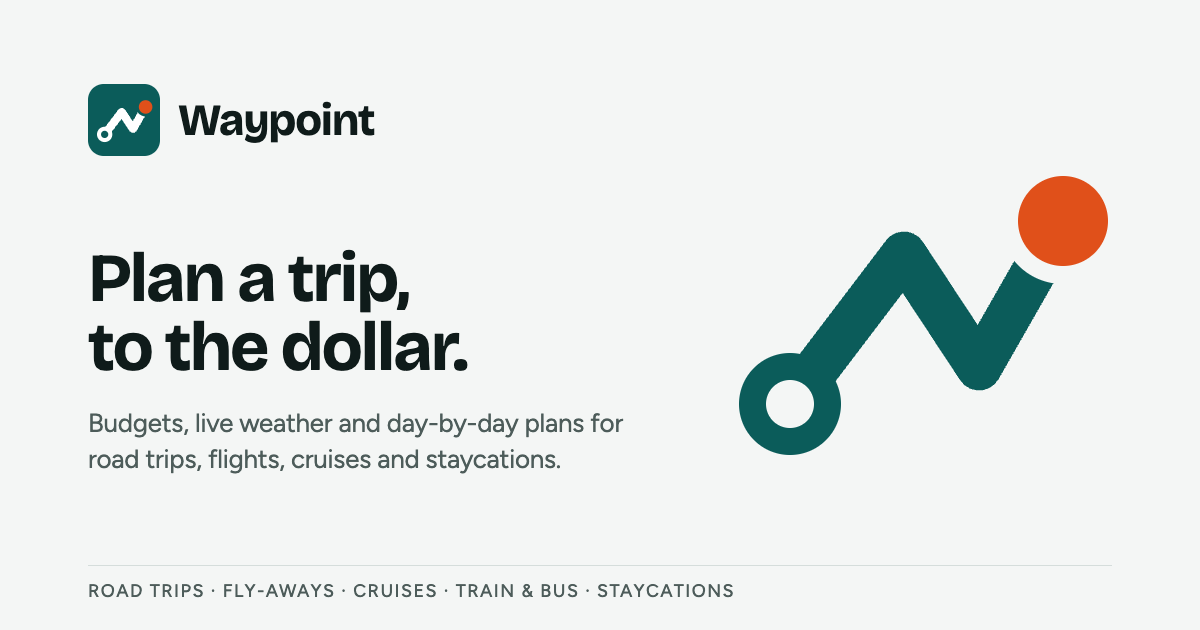
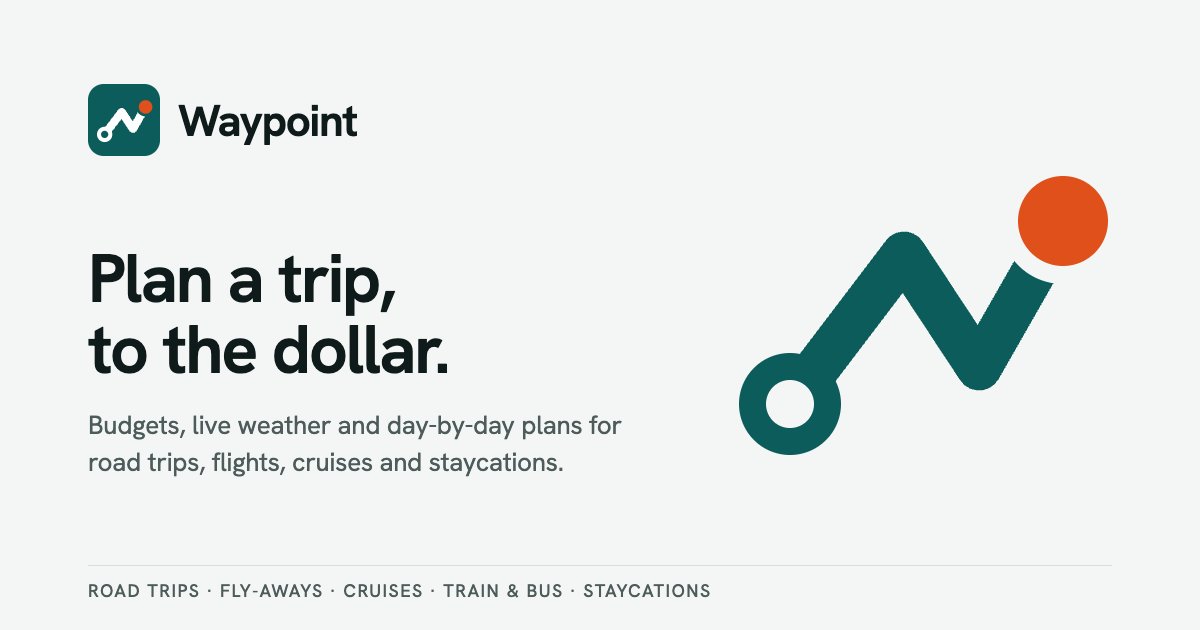
Restraint: system face with Hanken fallback, one teal accent, real photos only

diff --git a/src/components/app/plan/Inspiration.tsx b/src/components/app/plan/Inspiration.tsx
@@ -1,4 +1,5 @@
 import { ChevronLeft, ChevronRight } from "lucide-react";
+import { useQueries } from "@tanstack/react-query";
 import { useEffect, useState, type CSSProperties } from "react";
 
 import { Photo } from "@/components/app/Photo";
@@ -6,7 +7,8 @@ import { stagger, useDragScroll } from "@/components/app/motion";
 import { formatMoney } from "@/lib/budget";
 import type { GeoPoint } from "@/lib/catalog";
 import { getDestination, modeForTripType, tripTypeInfo, type TripType } from "@/lib/demo-data";
-import { useDestinationSummary } from "@/lib/live/use-open-data";
+import { useHydrated } from "@/lib/live/use-live";
+import { destinationSummaryOptions, useDestinationSummary } from "@/lib/live/use-open-data";
 import { recommendDestinations, type Suggestion } from "@/lib/recommend";
 import { TRIP_COLOR } from "@/components/app/trip-colors";
 import { TRIP_ICONS } from "@/components/app/TripTypePicker";
@@ -71,7 +73,17 @@ export function Inspiration({
   nights: number;
   onPick: (destinationId: string, tripType: TripType) => void;
 }) {
-  const ideas = inspirationIdeas(setup, from);
+  const hydrated = useHydrated();
+  const candidates = inspirationIdeas(setup, from, 8);
+  const photos = useQueries({
+    queries: candidates.map((idea) =>
+      destinationSummaryOptions(getDestination(idea.s.id), setup.origin, hydrated),
+    ),
+  });
+  // A place without a real photo is left out once we know (never a blank tile in the row).
+  const ideas = candidates
+    .filter((_, i) => photos[i]?.isPending || photos[i]?.data?.image)
+    .slice(0, 6);
   // A gallery, as on apple.com: one row you can drag, fling and page with the arrows.
   const rail = useDragScroll<HTMLUListElement>();
   const [edge, setEdge] = useState({ start: true, end: false });
@@ -200,8 +212,9 @@ function IdeaCard({
 
 /**
  * The hero's picture: three real places from the traveler's start, one tall and two
- * short, each a tap away from becoming the destination. Large screens only; phones
- * go straight to the ideas row.
+ * short, each a tap away from becoming the destination. Only places with a real photo
+ * are shown (a frame waits while photos load), so there is never a blank tile. Large
+ * screens only; phones go straight to the ideas row.
  */
 export function HeroPhotos({
   ideas,
@@ -212,52 +225,58 @@ export function HeroPhotos({
   origin: string;
   onPick: (destinationId: string, tripType: TripType) => void;
 }) {
-  const shown = ideas.slice(0, 3);
-  if (shown.length < 3) return null;
+  const hydrated = useHydrated();
+  const results = useQueries({
+    queries: ideas.map((idea) =>
+      destinationSummaryOptions(getDestination(idea.s.id), origin, hydrated),
+    ),
+  });
+  const withPhoto = ideas
+    .map((idea, i) => ({ idea, image: results[i]?.data?.image ?? null }))
+    .filter((x): x is { idea: Idea; image: string } => !!x.image)
+    .slice(0, 3);
+  const pending = results.some((r) => r.isPending);
+  if (withPhoto.length < 3 && !pending) return null;
   return (
     <ul className="hidden h-[26rem] grid-cols-2 grid-rows-2 gap-4 xl:grid">
-      {shown.map((idea, i) => (
-        <li key={idea.s.id} className={i === 0 ? "row-span-2" : undefined}>
-          <HeroTile idea={idea} origin={origin} onPick={onPick} />
-        </li>
-      ))}
+      {[0, 1, 2].map((i) => {
+        const hit = withPhoto[i];
+        return (
+          <li key={hit?.idea.s.id ?? i} className={i === 0 ? "row-span-2" : undefined}>
+            {hit ? (
+              <HeroTile idea={hit.idea} image={hit.image} onPick={onPick} />
+            ) : (
+              <span aria-hidden className="skeleton block size-full rounded-2xl" />
+            )}
+          </li>
+        );
+      })}
     </ul>
   );
 }
 
 function HeroTile({
   idea,
-  origin,
+  image,
   onPick,
 }: {
   idea: Idea;
-  origin: string;
+  image: string;
   onPick: (destinationId: string, tripType: TripType) => void;
 }) {
-  const dest = getDestination(idea.s.id);
-  const photo = useDestinationSummary(dest, origin).data;
-  const Icon = TRIP_ICONS[idea.tripType];
   return (
     <button
       type="button"
       onClick={() => onPick(idea.s.id, idea.tripType)}
       className="group relative isolate block size-full overflow-hidden rounded-2xl bg-fill text-left pressable focus-visible:ring-4 focus-visible:ring-primary/30 focus-visible:outline-none"
     >
-      {photo?.image ? (
-        <Photo
-          src={photo.image}
-          alt=""
-          lazy={false}
-          className="absolute inset-0 -z-10"
-          imgClassName="transition-[opacity,scale] duration-300 ease-out group-hover:scale-[1.03]"
-        />
-      ) : (
-        <Icon
-          aria-hidden
-          className="absolute inset-0 m-auto size-10 text-muted-foreground"
-          strokeWidth={1.5}
-        />
-      )}
+      <Photo
+        src={image}
+        alt=""
+        lazy={false}
+        className="absolute inset-0 -z-10"
+        imgClassName="transition-[opacity,scale] duration-300 ease-out group-hover:scale-[1.03]"
+      />
       <span className="absolute bottom-4 left-4 max-w-[calc(100%-2rem)] rounded-md bg-card px-4 py-2">
         <span className="block truncate text-footnote font-semibold text-foreground">
           {idea.s.name}

diff --git a/src/styles.css b/src/styles.css
@@ -2,8 +2,7 @@
 @source "../src";
 @import "tw-animate-css";
 /* One family, self-hosted (OFL), the way Apple sets everything in one face. */
-@import "@fontsource-variable/figtree";
-@import "@fontsource-variable/bricolage-grotesque";
+@import "@fontsource-variable/hanken-grotesk";
 
 @custom-variant dark (&:where(.dark, .dark *));
 
@@ -24,13 +23,14 @@
  */
 
 @theme inline {
+  /* Apple's own face on Apple devices (SF Pro, with optical sizes picked by the system);
+     Hanken Grotesk, a neutral self-hosted grotesque, everywhere else. */
   --font-sans:
-    "Figtree Variable", "Figtree", ui-sans-serif, -apple-system, BlinkMacSystemFont, "Segoe UI",
-    Roboto, "Helvetica Neue", Arial, sans-serif;
-  /* Headlines and amounts: Host Grotesk, an exact neo-grotesk, set tight. Text stays Instrument Sans. */
+    -apple-system, BlinkMacSystemFont, "Hanken Grotesk Variable", "Hanken Grotesk", ui-sans-serif,
+    "Segoe UI", Roboto, "Helvetica Neue", Arial, sans-serif;
   --font-display:
-    "Bricolage Grotesque Variable", "Bricolage Grotesque", "Figtree Variable", ui-sans-serif,
-    -apple-system, BlinkMacSystemFont, "Segoe UI", Roboto, "Helvetica Neue", Arial, sans-serif;
+    -apple-system, BlinkMacSystemFont, "Hanken Grotesk Variable", "Hanken Grotesk", ui-sans-serif,
+    "Segoe UI", Roboto, "Helvetica Neue", Arial, sans-serif;
   --font-mono: ui-monospace, "SF Mono", SFMono-Regular, Menlo, Consolas, monospace;
 
   /*
@@ -358,7 +358,7 @@
   /* Separators are hairlines: black at low alpha, so they sit right on any surface. */
   --border: oklch(0.218 0.012 185 / 0.12);
   --separator: oklch(0.218 0.012 185 / 0.1);
-  --input: oklch(0.218 0.012 185 / 0.18);
+  --input: oklch(0.218 0.012 185 / 0.28);
   --ring: oklch(0.431 0.071 192);
   /* Brand coral (#FF6B4A): the logo's destination dot. Used sparingly for "you are here / next" cues. */
   --brand-coral: oklch(0.6 0.19 38);
@@ -370,10 +370,10 @@
   --on-image: oklch(0.99 0 0);
 
   /* "Go" actions (Plan trip, See the days) use the brand blue: one action color. */
-  --go: oklch(0.56 0.185 38);
-  --go-deep: oklch(0.5 0.175 38);
-  --go-foreground: oklch(0.99 0 0);
-  --go-soft: oklch(0.95 0.03 50);
+  --go: var(--primary);
+  --go-deep: var(--primary-deep);
+  --go-foreground: var(--primary-foreground);
+  --go-soft: var(--accent);
 
   /* Travel styles: Savvy green, Comfort blue, Luxe violet. */
   --style-budget: oklch(0.52 0.13 160);
@@ -483,10 +483,10 @@
   --ink-foreground: oklch(0.16 0.022 185);
   --on-image: oklch(0.99 0 0);
 
-  --go: oklch(0.75 0.16 47);
-  --go-deep: oklch(0.8 0.14 47);
-  --go-foreground: oklch(0.17 0.02 40);
-  --go-soft: oklch(0.3 0.05 45);
+  --go: var(--primary);
+  --go-deep: var(--primary-deep);
+  --go-foreground: var(--primary-foreground);
+  --go-soft: var(--accent);
 
   --style-budget: oklch(0.74 0.13 160);
   --style-comfort: oklch(0.74 0.1 215);
@@ -686,9 +686,9 @@
 /* Titles: the system face, semibold and tightened as it grows (size comes from the text-* level). */
 @utility title-display {
   font-family: var(--font-display);
-  --tw-font-weight: 700;
-  font-weight: 700;
-  letter-spacing: -0.035em;
+  --tw-font-weight: 650;
+  font-weight: 650;
+  letter-spacing: -0.028em;
   text-wrap: balance;
   & em {
     font-style: normal;
@@ -699,8 +699,8 @@
    gaps around commas at this size), tight. Columns of numbers use `tabular`. */
 @utility money-display {
   font-family: var(--font-display);
-  font-weight: 700;
-  letter-spacing: -0.03em;
+  font-weight: 650;
+  letter-spacing: -0.025em;
   line-height: 1;
   font-variant-numeric: lining-nums proportional-nums;
 }
@@ -1251,6 +1251,8 @@
   --border: oklch(1 0 0 / 0.18);
   --input: oklch(1 0 0 / 0.24);
   --ring: oklch(0.86 0.09 185);
+  --ink: oklch(0.98 0.006 180);
+  --ink-foreground: oklch(0.2 0.03 192);
   color: var(--foreground);
 }
 .dark .theme-deep {

diff --git a/src/lib/live/use-open-data.ts b/src/lib/live/use-open-data.ts
@@ -32,16 +32,19 @@ export function photoQueries(dest: DemoDestination, origin: string): string[] {
 }
 
 /** Photo and introduction for a destination (Wikipedia, free), checked to be about that place. */
-export function useDestinationSummary(dest: DemoDestination, origin: string) {
-  const hydrated = useHydrated();
+export function destinationSummaryOptions(
+  dest: DemoDestination,
+  origin: string,
+  hydrated: boolean,
+) {
   const queries = photoQueries(dest, origin);
   const near =
     dest.anchor && dest.id !== "custom" && dest.id !== "hometown"
       ? { lat: dest.anchor.lat, lon: dest.anchor.lon }
       : null;
-  return useQuery({
+  return {
     queryKey: ["live", "wiki-summary", queries.join("|").toLowerCase(), near?.lat, near?.lon],
-    queryFn: async ({ signal }) => {
+    queryFn: async ({ signal }: { signal: AbortSignal }) => {
       for (const q of queries) {
         const found = await fetchPlaceSummary(q, signal, near);
         if (found) return found;
@@ -51,7 +54,12 @@ export function useDestinationSummary(dest: DemoDestination, origin: string) {
     enabled: hydrated && queries.length > 0,
     staleTime: 7 * 24 * 60 * 60 * 1000,
     retry: 1,
-  });
+  };
+}
+
+export function useDestinationSummary(dest: DemoDestination, origin: string) {
+  const hydrated = useHydrated();
+  return useQuery(destinationSummaryOptions(dest, origin, hydrated));
 }
 
 /** The travel-guide lookup for a destination, shared by the Overview and the planner (cached). */

diff --git a/src/components/ui/input.tsx b/src/components/ui/input.tsx
@@ -8,7 +8,7 @@ const Input = React.forwardRef<HTMLInputElement, React.ComponentProps<"input">>(
       <input
         type={type}
         className={cn(
-          "flex h-11 w-full rounded-xl border border-input bg-fill px-4 py-1 text-base transition-[border-color,box-shadow,background-color] duration-150 focus-visible:bg-card file:border-0 file:bg-transparent file:text-sm file:font-medium file:text-foreground placeholder:text-muted-foreground hover:border-muted-foreground/40 focus-visible:outline-none focus-visible:border-primary focus-visible:ring-3 focus-visible:ring-primary/15 disabled:cursor-not-allowed disabled:opacity-50 aria-invalid:border-destructive aria-invalid:bg-destructive-soft aria-invalid:focus-visible:ring-destructive/20 md:text-sm",
+          "flex h-11 w-full rounded-xl border border-input bg-card px-4 py-1 text-base transition-[border-color,box-shadow,background-color] duration-150 file:border-0 file:bg-transparent file:text-sm file:font-medium file:text-foreground placeholder:text-muted-foreground hover:border-muted-foreground/40 focus-visible:outline-none focus-visible:border-primary focus-visible:ring-3 focus-visible:ring-primary/15 disabled:cursor-not-allowed disabled:opacity-50 aria-invalid:border-destructive aria-invalid:bg-destructive-soft aria-invalid:focus-visible:ring-destructive/20 md:text-sm",
           className,
         )}
         ref={ref}

diff --git a/src/test/design-system.test.ts b/src/test/design-system.test.ts
@@ -123,7 +123,7 @@ describe("surfaces", () => {
     expect(fields).toContain("input");
     for (const f of fields) {
       const src = readFileSync(join(ui, `${f}.tsx`), "utf8");
-      expect(src, `${f}.tsx`).toMatch(/rounded-xl border border-input bg-fill/);
+      expect(src, `${f}.tsx`).toMatch(/rounded-xl border border-input bg-card/);
       expect(src, `${f}.tsx`).not.toMatch(/\bshadow-sm\b/);
     }
   });
@@ -200,11 +200,12 @@ describe("no template tells", () => {
     expect(find(/<img\b/g, (p) => p.endsWith("Photo.tsx"))).toEqual([]);
   });
 
-  it("sets headlines in Bricolage Grotesque and text in Figtree, both self-hosted (no magazine serif)", () => {
+  it("sets everything in the system face (SF on Apple devices) with self-hosted Hanken Grotesk as the fallback (no magazine serif)", () => {
     const css = readFileSync(join(SRC, "styles.css"), "utf8");
-    const face = (name: string) => css.match(new RegExp(`--font-${name}:\\s*"([^"]+)"`))?.[1];
-    expect(face("display")).toBe("Bricolage Grotesque Variable");
-    expect(face("sans")).toBe("Figtree Variable");
+    for (const name of ["display", "sans"]) {
+      const stack = css.match(new RegExp(`--font-${name}:([^;]+);`))?.[1] ?? "";
+      expect(stack).toMatch(/^\s*-apple-system,[^"]*"Hanken Grotesk Variable"/);
+    }
     expect(css).not.toMatch(/newsreader/i);
   });
 

diff --git a/src/components/ui/button.tsx b/src/components/ui/button.tsx
@@ -18,11 +18,11 @@ const buttonVariants = cva(
         secondary: "bg-fill text-secondary-foreground hover:bg-secondary",
         ghost: "text-foreground hover:bg-fill",
         link: "text-primary underline-offset-4 hover:underline [&]:h-auto [&]:px-0",
-        // Primary call to action: solid ink, inverts in dark mode.
-        hero: "bg-ink font-semibold text-ink-foreground hover:opacity-90",
+        // Primary call to action: the same teal as every primary action.
+        hero: "bg-primary font-semibold text-primary-foreground hover:bg-primary-deep",
         // "Go" actions that move the trip forward (Plan trip, Start planning).
         go: "bg-go font-semibold text-go-foreground hover:bg-go-deep",
-        ink: "bg-ink font-semibold text-ink-foreground hover:opacity-90",
+        ink: "bg-primary font-semibold text-primary-foreground hover:bg-primary-deep",
         shield: "bg-shield text-shield-foreground hover:opacity-90",
         success: "bg-fill text-foreground hover:text-success",
       },

diff --git a/src/components/app/AppShell.tsx b/src/components/app/AppShell.tsx
@@ -253,7 +253,7 @@ function SideLink({
       className={cn(
         "pressable relative flex flex-col items-center gap-1 rounded-lg px-1 py-2 text-micro transition-colors duration-150 lg:h-10 lg:flex-row lg:gap-4 lg:px-4 lg:py-0 lg:text-footnote",
         on
-          ? "bg-fill font-semibold text-foreground before:absolute before:inset-y-2 before:left-0 before:w-[3px] before:rounded-xs before:bg-go"
+          ? "bg-fill font-semibold text-foreground before:absolute before:inset-y-2 before:left-0 before:w-[3px] before:rounded-xs before:bg-primary"
           : "text-foreground/75 hover:bg-fill hover:text-foreground",
       )}
     >

diff --git a/src/routes/budget.tsx b/src/routes/budget.tsx
@@ -119,7 +119,7 @@ function BudgetPage() {
                 <div
                   className={cn(
                     "h-full rounded-full transition-[width] spring-smooth",
-                    totals.overBudget ? "bg-destructive" : "bg-foreground",
+                    totals.overBudget ? "bg-destructive" : "bg-primary",
                   )}
                   style={{
                     width: `${totals.percentUsed === null ? (totals.planned > 0 ? 100 : 0) : Math.min(100, totals.percentUsed)}%`,

diff --git a/src/components/app/plan/TripAssistant.tsx b/src/components/app/plan/TripAssistant.tsx
@@ -322,7 +322,7 @@ export function TripAssistant({
             t.role === "user" ? (
               <p
                 key={i}
-                className="ml-auto w-fit max-w-[85%] rounded-2xl rounded-br-md bg-ink px-4 py-2 text-sm text-ink-foreground"
+                className="ml-auto w-fit max-w-[85%] rounded-2xl rounded-br-md bg-primary px-4 py-2 text-sm text-primary-foreground"
               >
                 {t.content}
               </p>

diff --git a/src/routes/itinerary.tsx b/src/routes/itinerary.tsx
@@ -90,7 +90,7 @@ function ItineraryPage() {
             onClick={planner.planWithOpenData}
             loading={planner.job === "open"}
             disabled={planner.busy}
-            className="flex-1 sm:flex-none"
+            className="flex-1 sm:flex-none sm:bg-fill sm:text-foreground sm:hover:bg-secondary"
           >
             <MapPin />
             {planner.job === "open" ? "Finding places…" : "Use real places"}

diff --git a/src/routes/index.tsx b/src/routes/index.tsx
@@ -322,7 +322,7 @@ function Welcome() {
   const approximate =
     !touched.current && home.place?.source === "approximate" && form.origin === home.place.label;
 
-  const heroIdeas = inspirationIdeas(effective, originPoint, 3);
+  const heroIdeas = inspirationIdeas(effective, originPoint, 8);
 
   const pickIdea = (destinationId: string, tripType: TripType) => {
     destPicked.current = true;

diff --git a/src/components/app/itinerary/PlanCosts.tsx b/src/components/app/itinerary/PlanCosts.tsx
@@ -115,7 +115,7 @@ function CostLine({
         <div
           className={cn(
             "h-full rounded-full transition-[width] spring-smooth",
-            fit === "over" ? "bg-destructive" : "bg-foreground",
+            fit === "over" ? "bg-destructive" : "bg-primary",
           )}
           style={{ width: `${pct}%` }}
         />
